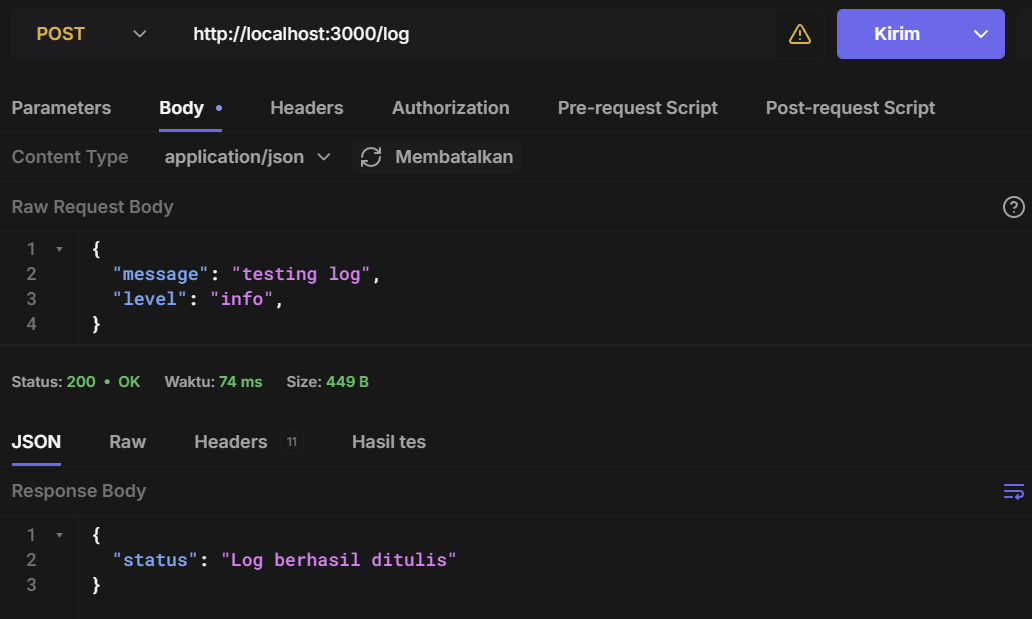
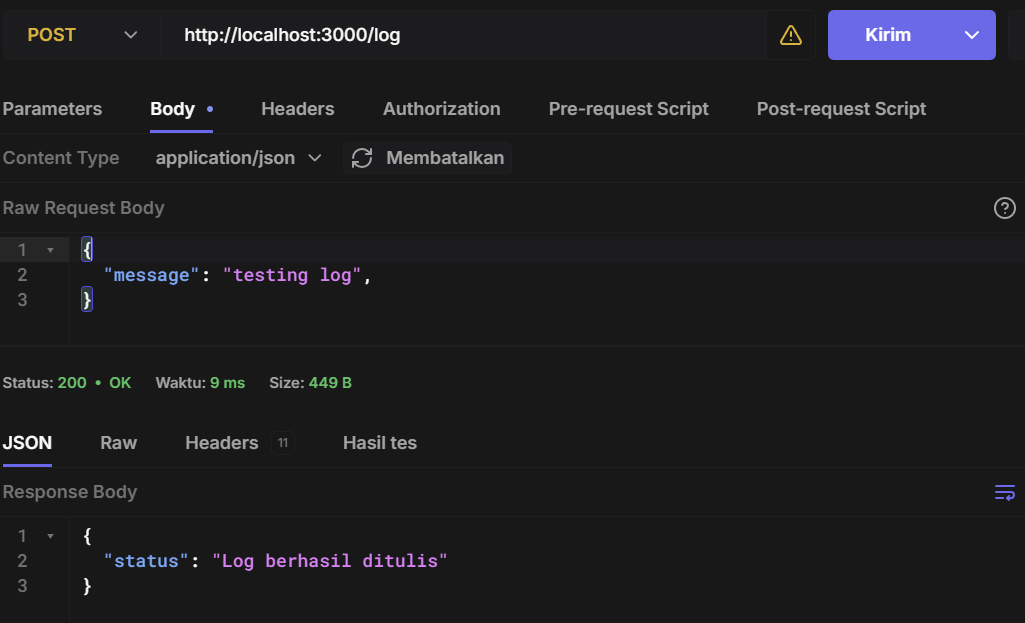
feat: add filter step

diff --git a/logging-monitoring/README.md b/logging-monitoring/README.md
@@ -232,20 +232,29 @@ Filebeat akan membaca file log yang dihasilkan oleh aplikasi dan mengirimkannya 
 5. Jalankan perintah `docker-compose up -d` untuk memulai layanan ELK Stack beserta Filebeat.
 6. Pastikan aplikasi sudah dikonfigurasi untuk menghasilkan log ke file `app.log` di dalam folder `logs` pada aplikasi. Contoh konfigurasi logging menggunakan winston pada Node.js:
     ```javascript
-    const winston = require('winston')
+    const winston = require("winston");
 
     const logger = winston.createLogger({
-        format: winston.format.combine(
-            winston.format.timestamp(),
-            winston.format.json()
-        ),
-        transports:[
-            new winston.transports.Console(),
-            new winston.transports.File({filename: 'logs/app.log'})
-        ]
-    })
+    level: "info",
 
-    module.exports = logger
+    defaultMeta: {
+        service: "express-app",
+    },
+
+    format: winston.format.combine(
+        winston.format.timestamp(),
+        winston.format.json()
+    ),
+
+    transports: [
+        new winston.transports.Console(),
+        new winston.transports.File({
+        filename: "logs/app.log",
+        }),
+    ],
+    });
+
+    module.exports = logger;
     ```
     Contoh penggunaan logger di aplikasi:
     ```javascript
@@ -257,32 +266,34 @@ Filebeat akan membaca file log yang dihasilkan oleh aplikasi dan mengirimkannya 
     app.use(express.json());
 
     app.post("/log", (req, res) => {
-    const { level = "info", message = "No message provided" } = req.body;
+        const { level = "info", message = "No message provided" } = req.body;
 
-    logger.log({
-        level,
-        message,
-        service: "express-app",
-        endpoint: "/log",
-        method: "POST",
-    });
+        logger.log({
+            level,
+            message,
+            service: "express-app",
+            endpoint: "/log",
+            method: "POST",
+        });
 
-    res.json({
-        status: "Log berhasil ditulis",
-    });
+        res.json({
+            status: "Log berhasil ditulis",
+        });
     });
 
     app.listen(3000, () => {
-    logger.info({
-        message: "Server started",
-        service: "express-app",
-        port: 3000,
-    });
+        logger.info({
+            message: "Server started",
+            service: "express-app",
+            port: 3000,
+        });
 
-    console.log("🚀 App running on http://localhost:3000");
+        console.log("App running on http://localhost:3000");
     });
     ```
 7. Setelah aplikasi berjalan, coba kirim data log ke endpoint `/log` dengan menggunakan curl/postman/hoppscotch.
 ![alt text](images/image.png)
 8. Setelah data log berhasil dikirim, kita dapat cek di Kibana dengan memilih menu Discover lalu pilih data view yang telah dibuat sebelumnya untuk melihat log yang telah dikirim dari aplikasi.
 ![alt text](images/image11.png)
+9. Kita dapat memilih field-field yang ingin ditampilkan di Kibana, seperti endpoint, timestamp, method, message, level, dan service. Dengan cara ini, kita dapat dengan mudah memfilter dan mencari log berdasarkan field-field tersebut.
+![alt text](images/image12.png)
